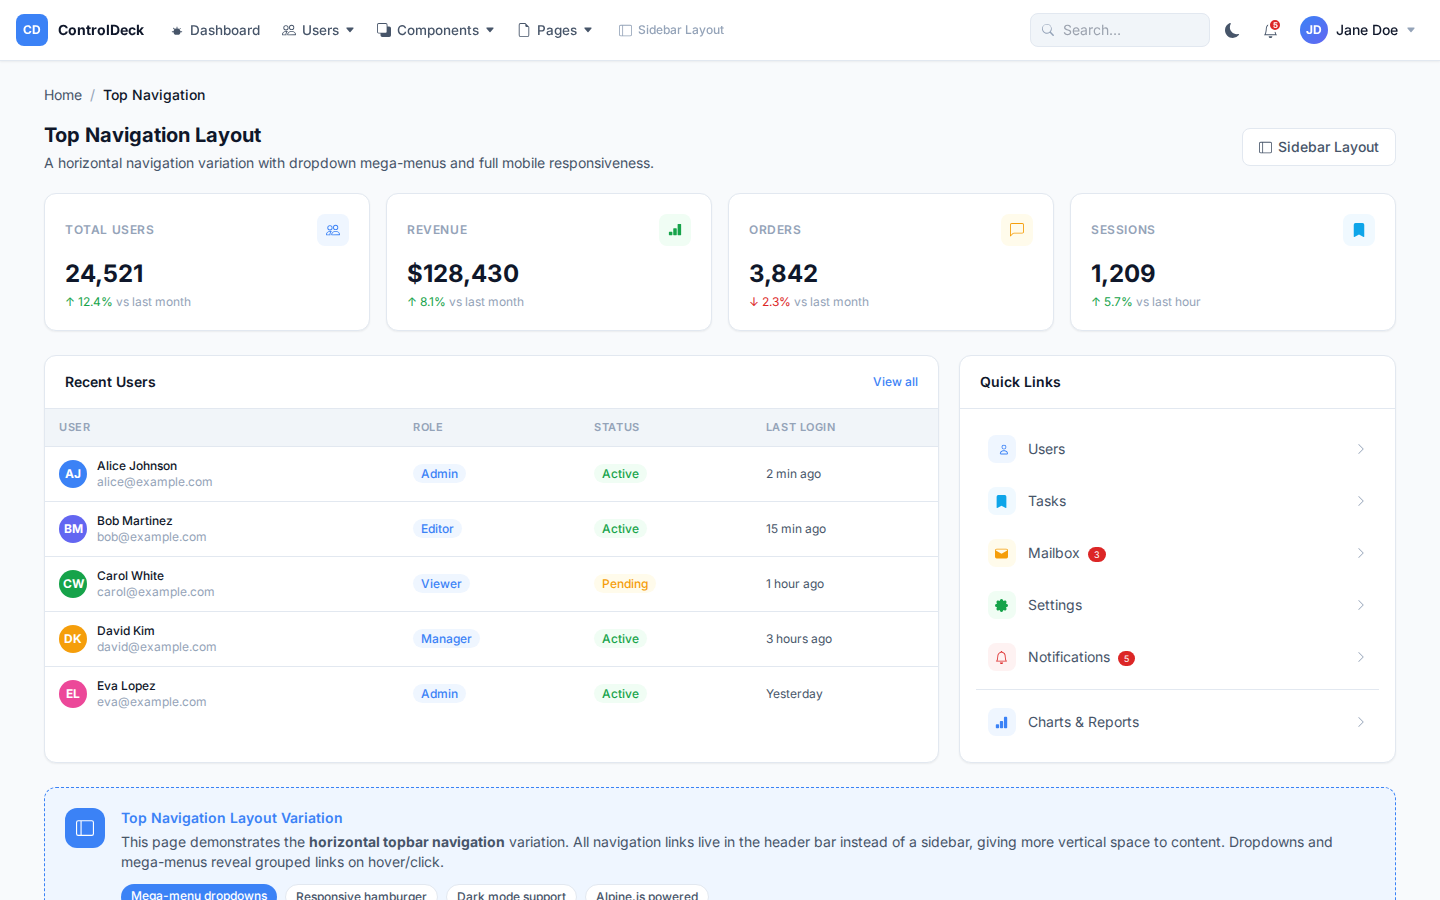
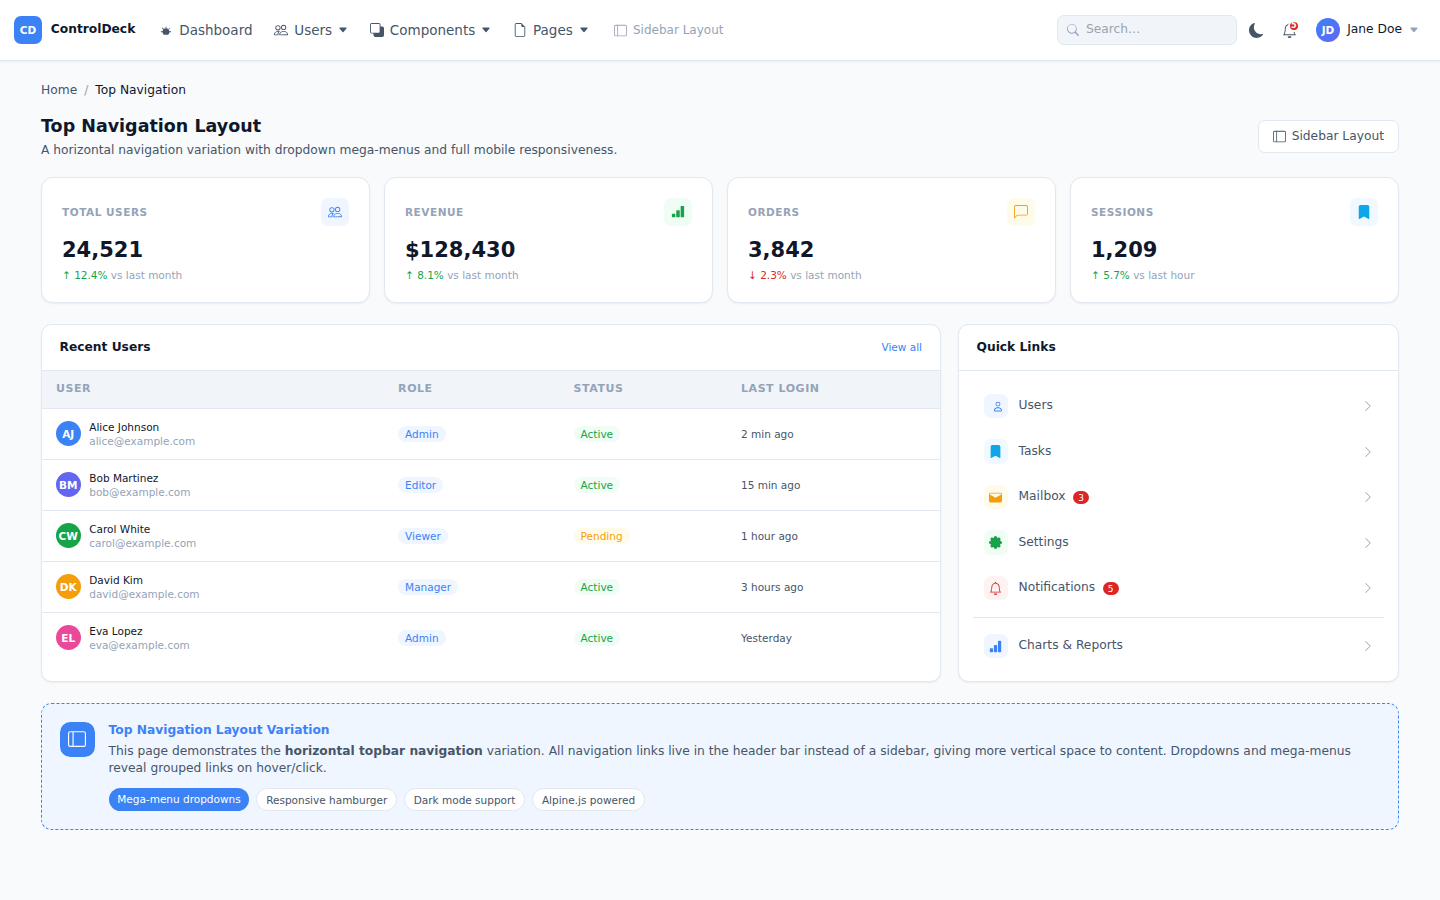
Add Bootstrap 5 equivalents of settings/notifications/tasks/topnav + fix screenshots

diff --git a/README.md b/README.md
@@ -8,7 +8,7 @@ ControlDeck Pro is a production-quality admin panel design system with two compl
 
 ## Preview
 
-Screenshots of all pages at 1440 × 900. Bootstrap 5 pages show both columns; Tailwind-only pages show the Tailwind column.
+Screenshots of all pages at 1440 × 900. Each row shows Bootstrap 5 on the left and Tailwind + Alpine on the right.
 
 ---
 
@@ -157,29 +157,29 @@ Screenshots of all pages at 1440 × 900. Bootstrap 5 pages show both columns; Ta
 |---|---|
 | ![Blank – Bootstrap](docs/screenshots/bootstrap/blank.png) | ![Blank – Tailwind](docs/screenshots/tailwind/blank.png) |
 
-#### Settings *(Tailwind only)*
-| Tailwind + Alpine |
-|---|
-| ![Settings – Tailwind](docs/screenshots/tailwind/settings.png) |
+#### Settings
+| Bootstrap 5 | Tailwind + Alpine |
+|---|---|
+| ![Settings – Bootstrap](docs/screenshots/bootstrap/settings.png) | ![Settings – Tailwind](docs/screenshots/tailwind/settings.png) |
 
-#### Notifications *(Tailwind only)*
-| Tailwind + Alpine |
-|---|
-| ![Notifications – Tailwind](docs/screenshots/tailwind/notifications.png) |
+#### Notifications
+| Bootstrap 5 | Tailwind + Alpine |
+|---|---|
+| ![Notifications – Bootstrap](docs/screenshots/bootstrap/notifications.png) | ![Notifications – Tailwind](docs/screenshots/tailwind/notifications.png) |
 
-#### Tasks / Kanban *(Tailwind only)*
-| Tailwind + Alpine |
-|---|
-| ![Tasks – Tailwind](docs/screenshots/tailwind/tasks.png) |
+#### Tasks / Kanban
+| Bootstrap 5 | Tailwind + Alpine |
+|---|---|
+| ![Tasks – Bootstrap](docs/screenshots/bootstrap/tasks.png) | ![Tasks – Tailwind](docs/screenshots/tailwind/tasks.png) |
 
 ---
 
-### Top Navigation Layout *(Tailwind only)*
+### Top Navigation Layout
 
 #### Top Navigation
-| Tailwind + Alpine |
-|---|
-| ![Top Navigation – Tailwind](docs/screenshots/tailwind/topnav.png) |
+| Bootstrap 5 | Tailwind + Alpine |
+|---|---|
+| ![Top Navigation – Bootstrap](docs/screenshots/bootstrap/topnav.png) | ![Top Navigation – Tailwind](docs/screenshots/tailwind/topnav.png) |
 
 ---
 
@@ -241,7 +241,7 @@ ControlDeck-Pro/
 ├── shared/
 │   └── css/
 │       └── variables.css        # CSS custom properties contract
-├── bootstrap/                   # Bootstrap 5 + jQuery stack (28 pages)
+├── bootstrap/                   # Bootstrap 5 + jQuery stack (32 pages)
 │   ├── index.html               # Dashboard v1
 │   ├── dashboard2.html          # Dashboard v2
 │   ├── users.html               # Users management
@@ -264,6 +264,10 @@ ControlDeck-Pro/
 │   ├── calendar.html            # Calendar
 │   ├── invoice.html             # Invoice
 │   ├── profile.html             # Profile
+│   ├── settings.html            # Settings (tabs: General, Profile, Security, Notifications, API Keys)
+│   ├── notifications.html       # Notification centre (All / Unread filter)
+│   ├── tasks.html               # Tasks Kanban board (4 columns + list view)
+│   ├── topnav.html              # Top Navigation layout variant (horizontal mega-menu)
 │   ├── login.html               # Login
 │   ├── register.html            # Register
 │   ├── lockscreen.html          # Lockscreen
